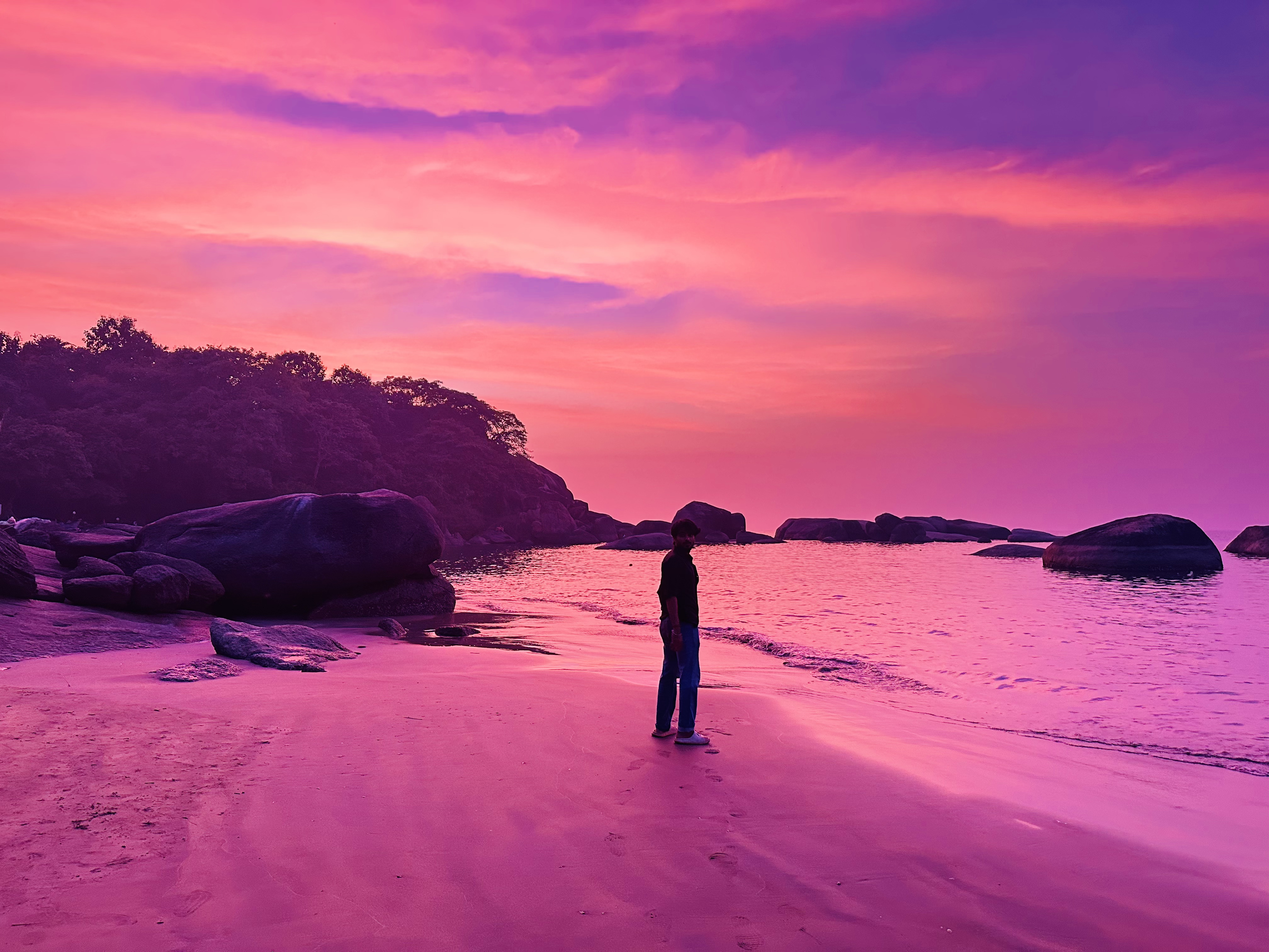
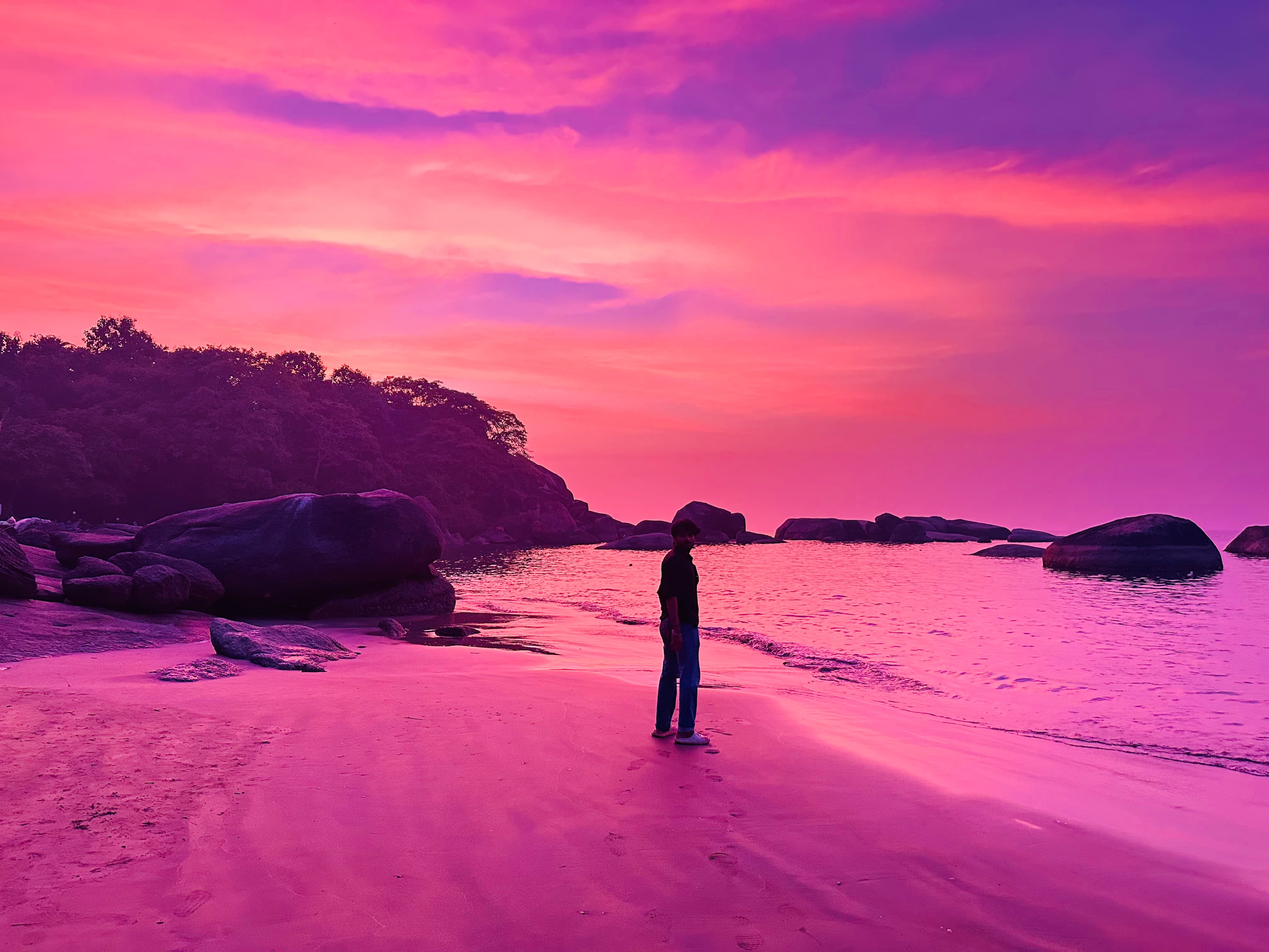
feat: pricing updates, carousel swipe, footer branding, and performance optimization (img compression + lazy loading)

diff --git a/src/app/pricing/page.js b/src/app/pricing/page.js
@@ -10,6 +10,20 @@ import RoomCarousel from "@/components/RoomCarousel";
 
 const pricingTiers = [
     {
+        title: "The New Moon",
+        price: "₹12,000",
+        period: "/week",
+        features: [
+            { text: "7 Days Workspace Access", available: true },
+            { text: "All Nivasa Amenities Included", available: true },
+            { text: "24/7 High-Speed Internet", available: true },
+            { text: "Organic Goan Meals Included", available: true },
+            { text: "Add on weekend trips", available: true }
+        ],
+        buttonText: "Book New Moon",
+        highlighted: false
+    },
+    {
         title: "The Full Moon",
         price: "₹36,000",
         period: "/month",
@@ -18,9 +32,10 @@ const pricingTiers = [
             { text: "All Nivasa Amenities Included", available: true },
             { text: "24/7 High-Speed Internet", available: true },
             { text: "Exclusive Networking Events", available: true },
+            { text: "Free weekend trips", available: true },
             { text: "Organic Goan Meals Included", available: true }
         ],
-        buttonText: "Book Full Mode",
+        buttonText: "Book Full Moon",
         highlighted: true
     },
     {
@@ -32,7 +47,7 @@ const pricingTiers = [
             { text: "All Nivasa Amenities Included", available: true },
             { text: "24/7 High-Speed Internet", available: true },
             { text: "Organic Goan Meals Included", available: true },
-            { text: "Free Weekend Trips", available: false }
+            { text: "Add on weekend trips", available: true }
         ],
         buttonText: "Book The Knight",
         highlighted: false
@@ -112,7 +127,7 @@ export default function PricingPage() {
 
             {/* Pricing Tiers Section */}
             <section className="pb-32 relative z-10">
-                <div className="max-w-6xl mx-auto px-6 grid md:grid-cols-2 gap-12">
+                <div className="max-w-7xl mx-auto px-6 grid md:grid-cols-3 gap-12">
                     {pricingTiers.map((tier, idx) => (
                         <motion.div
                             key={tier.title}

diff --git a/src/components/TestimonialsSection.js b/src/components/TestimonialsSection.js
@@ -15,7 +15,7 @@ const testimonials = [
     {
         name: "Omar",
         role: "Creative Professional",
-        image: `${BASE_PATH}/testimonials/omar.png`,
+        image: `${BASE_PATH}/testimonials/omar.jpg`,
         text: "Tremendous retreat! The rooms were comfortable and the food felt like proper home-cooked meals. The property is peaceful and full of greenery, with happy animals around which adds to the atmosphere. Everything you need is there — warm showers, cool AC rooms, and the beach just a short walk away. What impressed me most was how much the team genuinely cares about the safety and well-being of guests. Easily one of the best-priced retreats for the experience you get. Highly recommended.",
         rating: 5
     },
@@ -66,7 +66,7 @@ export default function TestimonialsSection() {
                                 "{t.text}"
                             </p>
                             <div className="flex items-center gap-4">
-                                <img src={t.image} alt={t.name} className="w-12 h-12 rounded-full object-cover" />
+                                <img src={t.image} alt={t.name} className="w-12 h-12 rounded-full object-cover" loading="lazy" decoding="async" />
                                 <div>
                                     <h4 className="font-bold text-sm">{t.name}</h4>
                                     <p className="text-[10px] text-foreground/40 uppercase tracking-widest">{t.role}</p>

diff --git a/src/components/AgondaCarousel.js b/src/components/AgondaCarousel.js
@@ -117,6 +117,16 @@ export default function AgondaCarousel() {
                                     if (offset < 0) prev();
                                     else if (offset > 0) next();
                                 }}
+                                drag="x"
+                                dragConstraints={{ left: 0, right: 0 }}
+                                onDragEnd={(_, info) => {
+                                    const swipeThreshold = 50;
+                                    if (info.offset.x > swipeThreshold) {
+                                        prev();
+                                    } else if (info.offset.x < -swipeThreshold) {
+                                        next();
+                                    }
+                                }}
                                 animate={{
                                     rotateY,
                                     x: translateX,
@@ -141,6 +151,8 @@ export default function AgondaCarousel() {
                                     src={agondaImages[index]}
                                     alt={`Goa ${index + 1}`}
                                     className="w-full h-full object-cover"
+                                    loading="lazy"
+                                    decoding="async"
                                     draggable={false}
                                 />
                                 {/* Active card label */}

diff --git a/src/components/Gallery.js b/src/components/Gallery.js
@@ -17,7 +17,7 @@ const features = [
     {
         title: "Nature & Wildlife",
         description: "Lush forests, exotic birds, and secret waterfalls are all around you.",
-        image: `${BASE_PATH}/room/nature.png`
+        image: `${BASE_PATH}/room/nature.jpg`
     },
     {
         title: "Free Weekends Trip",
@@ -27,7 +27,7 @@ const features = [
     {
         title: "Community Kitchen",
         description: "Get free home-style meals and a fully equipped kitchen to cook your favorite dishes with friends.",
-        image: `${BASE_PATH}/room/kitchen_people.png`
+        image: `${BASE_PATH}/room/kitchen_people.jpg`
     }
 ];
 
@@ -49,6 +49,8 @@ export default function Gallery() {
                                 src={feature.image}
                                 alt={feature.title}
                                 className="w-full h-full object-cover group-hover:scale-110 transition-transform duration-700 ease-out"
+                                loading="lazy"
+                                decoding="async"
                             />
                         </div>
                         <h3 className="font-display text-2xl font-bold mb-3">{feature.title}</h3>

diff --git a/src/components/Footer.js b/src/components/Footer.js
@@ -7,7 +7,7 @@ export default function Footer() {
         <footer className="bg-foreground/[0.02] py-20 px-6 border-t border-foreground/[0.05]">
             <div className="max-w-7xl mx-auto flex flex-col items-center gap-12">
                 <div className="text-center">
-                    <h4 className="font-display text-3xl font-bold text-primary mb-4">The Nivasa Project</h4>
+                    <h4 className="font-display text-3xl font-bold text-primary mb-4">The Nivasa project by Om Yoga Shala</h4>
                     <p className="text-sm text-foreground/70 font-light max-w-xs mx-auto">
                         Made with ❤ for builders in Agonda, South Goa.
                     </p>
@@ -31,7 +31,7 @@ export default function Footer() {
                 </div>
 
                 <div className="text-[10px] text-foreground/40 mt-4">
-                    © {new Date().getFullYear()} The Nivasa Project. All rights reserved.
+                    © {new Date().getFullYear()} The Nivasa project by Om Yoga Shala. All rights reserved.
                 </div>
             </div>
         </footer>

diff --git a/src/components/RoomCarousel.js b/src/components/RoomCarousel.js
@@ -5,16 +5,16 @@ import { useRef } from "react";
 import BASE_PATH from "@/lib/basePath";
 
 const images = [
-    "/room/Balcony.png",
-    "/room/room.png",
+    "/room/Balcony.jpg",
+    "/room/room.jpg",
     "/room/wfh.JPG",
-    "/room/kitchen.png",
-    "/room/nature.png",
+    "/room/kitchen.jpg",
+    "/room/nature.jpg",
     "/room/outsideworkingarea.jpg",
     "/room/washroom.jpg",
-    "/room/kitchen_people.png",
+    "/room/kitchen_people.jpg",
     "/room/IMG_2274.jpg",
-    "/room/working_area.png",
+    "/room/working_area.jpg",
     "/room/IMG_2262.jpg",
     "/room/dogs.JPG",
     "/room/yogahall1.jpg"
@@ -61,6 +61,8 @@ export default function RoomCarousel() {
                             src={img}
                             alt={`Room at Nivasa ${i + 1}`}
                             className="w-full h-full object-cover"
+                            loading="lazy"
+                            decoding="async"
                         />
                     </motion.div>
                 ))}

diff --git a/src/components/CommunityCarousel.js b/src/components/CommunityCarousel.js
@@ -10,11 +10,11 @@ const images = [
     "/community/MARGAO%20(103).jpg",
     "/community/boat1.jpg",
     "/community/boat2.jpg",
-    "/community/common%20area.png",
+    "/community/common%20area.jpg",
     "/community/IMG_3002.jpg",
     "/community/farm.jpg",
-    "/community/hero.png",
-    "/community/kitchen.png",
+    "/community/hero.jpg",
+    "/community/kitchen.jpg",
     "/community/IMG_2235.jpg",
     "/community/IMG_2304.jpg",
     "/community/IMG_3003.jpg",
@@ -70,6 +70,8 @@ export default function CommunityCarousel() {
                             src={img}
                             alt={`Life at Nivasa ${i + 1}`}
                             className="w-full h-full object-cover"
+                            loading="lazy"
+                            decoding="async"
                         />
                     </motion.div>
                 ))}

diff --git a/src/app/apply/page.js b/src/app/apply/page.js
@@ -248,8 +248,9 @@ ${form.message || "Not provided"}`;
                         </label>
                         <div className="grid grid-cols-1 sm:grid-cols-2 gap-4">
                             {[
-                                { id: "full-moon", name: "The Full Moon", desc: "28 Days · ₹36,000/month" },
+                                { id: "new-moon", name: "The New Moon", desc: "7 Days · ₹12,000/week" },
                                 { id: "half-knight", name: "The Half Knight", desc: "14 Days · ₹18,000/14 days" },
+                                { id: "full-moon", name: "The Full Moon", desc: "28 Days · ₹36,000/month" },
                             ].map((plan) => (
                                 <button
                                     key={plan.id}

diff --git a/src/components/CommunityInfo.js b/src/components/CommunityInfo.js
@@ -53,9 +53,11 @@ export default function CommunityInfo() {
                     >
                         <div className="relative aspect-[16/10] md:aspect-square overflow-hidden rounded-[2.5rem] shadow-2xl">
                             <img
-                                src={`${BASE_PATH}/community/hero.png`}
+                                src={`${BASE_PATH}/community/hero.jpg`}
                                 alt="Nivasa Community"
                                 className="w-full h-full object-cover"
+                                loading="lazy"
+                                decoding="async"
                             />
                         </div>
 
